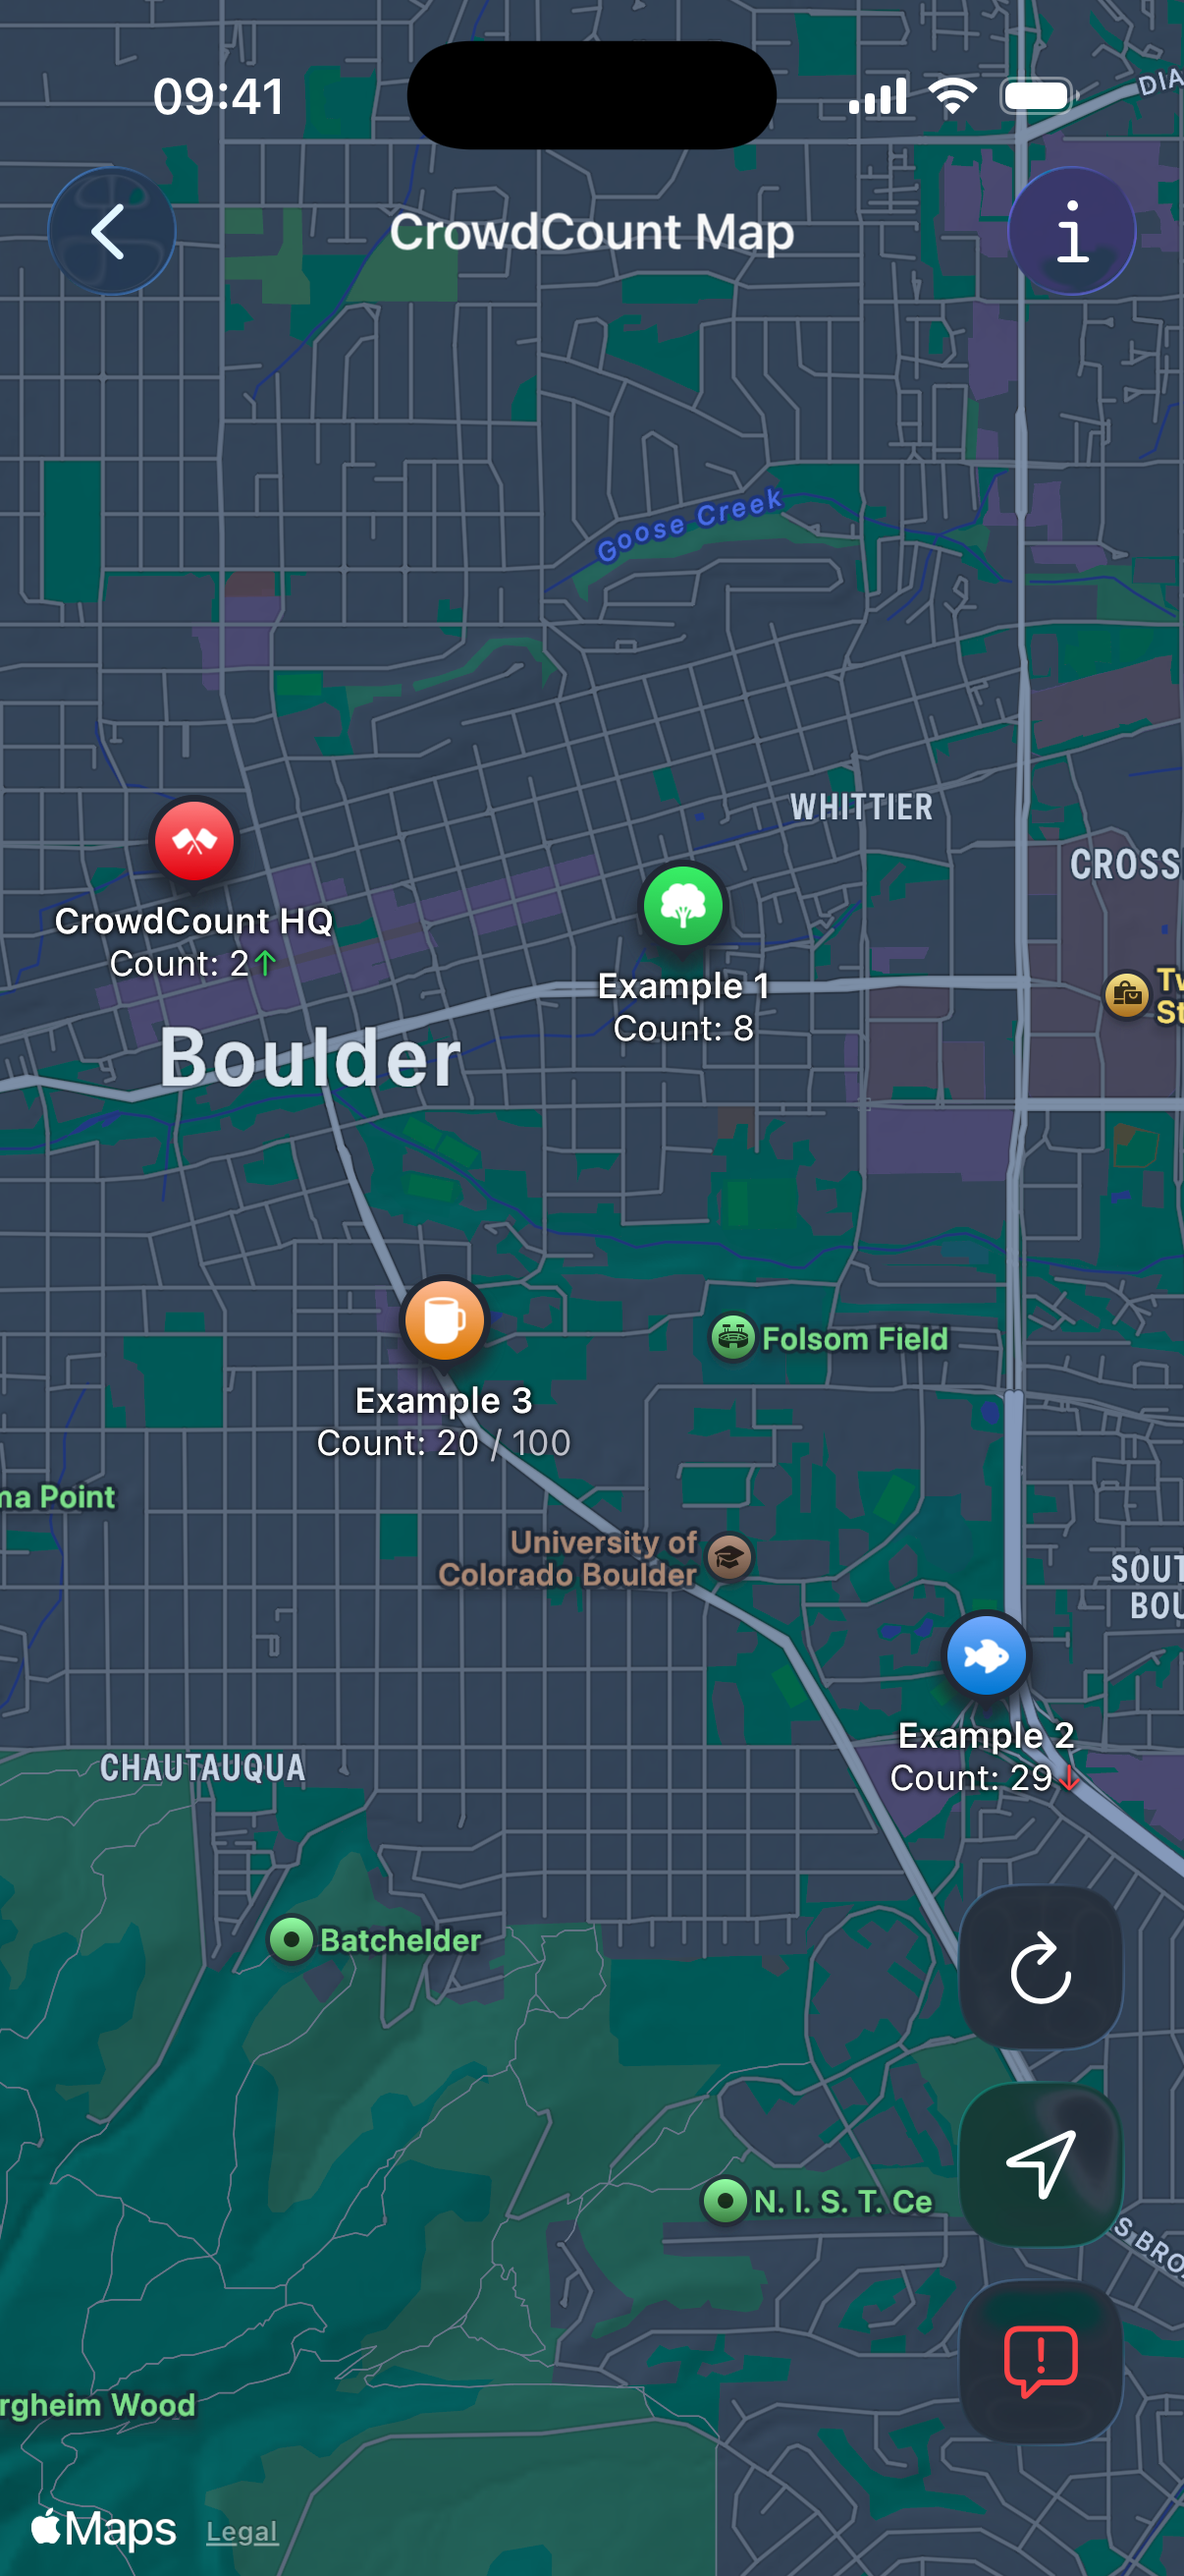
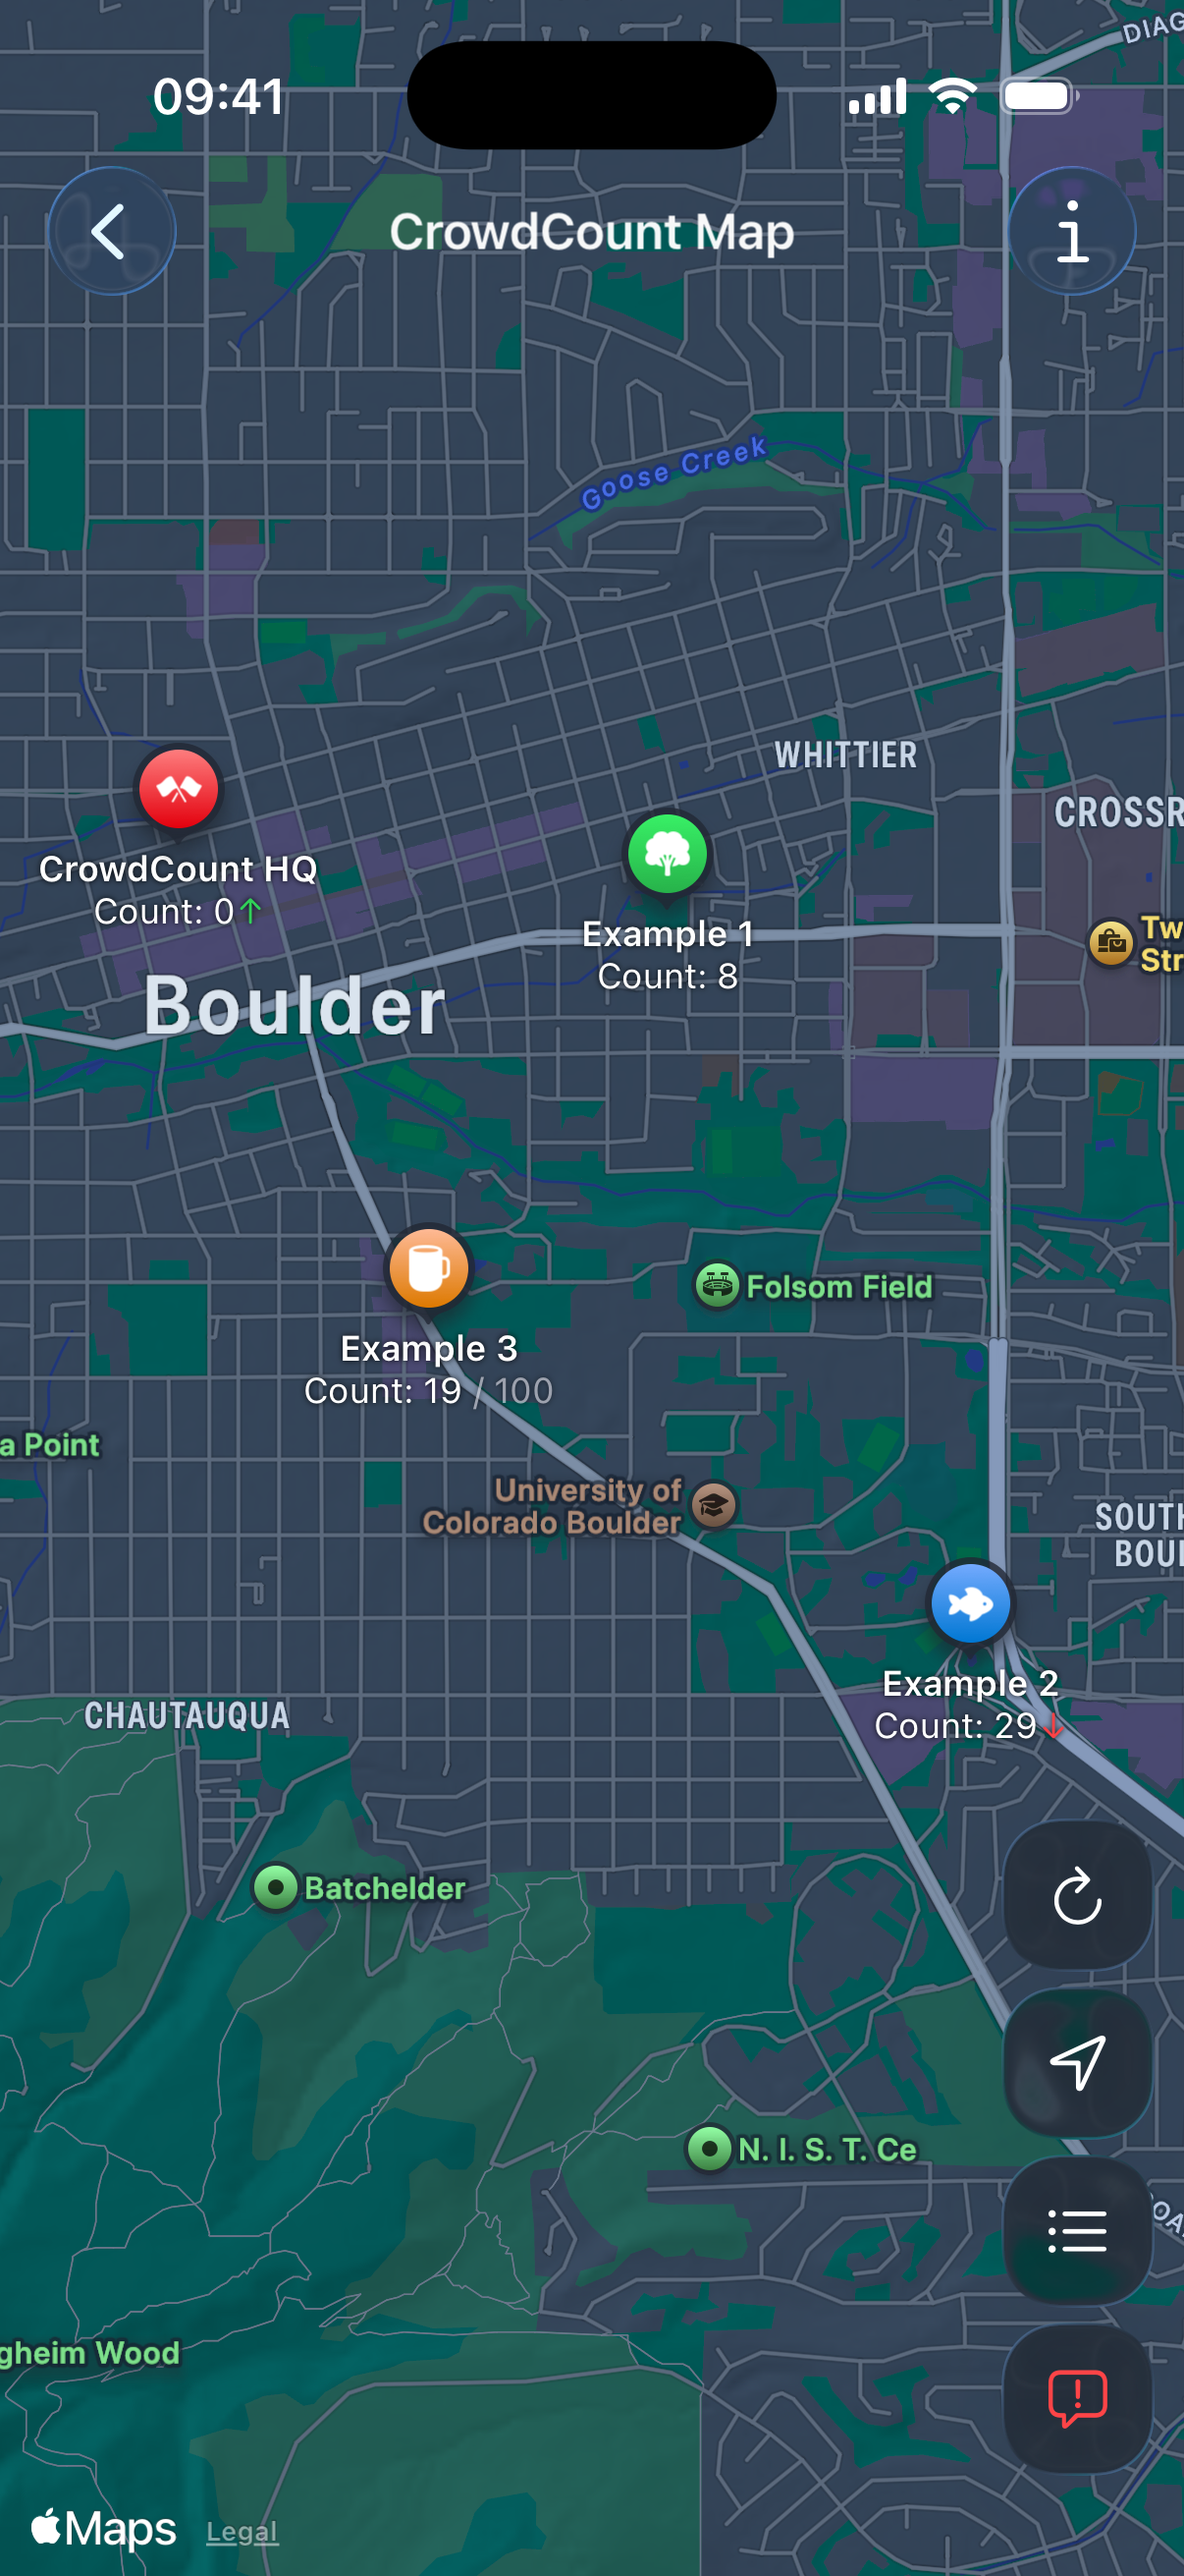
added list view

diff --git a/src/products.html b/src/products.html
@@ -84,6 +84,7 @@
                         <div id="photo-gallery">
                             <img src="./assets/AppPhotos/WelcomePage.png" alt="Welcome Page">
                             <img src="./assets/AppPhotos/MapView.png" alt="Map View">
+                            <img src="./assets/AppPhotos/MapListView.png" alt="Map List View">
                             <img src="./assets/AppPhotos/DeviceViewOvercrowding.png" alt="Device View">
                             <img src="./assets/AppPhotos/LiveHistoricView.png" alt="Live Count History View">
                             <img src="./assets/AppPhotos/AverageInfo.png" alt="Info for Historic View Average">
@@ -98,6 +99,7 @@
                         </div>
 
                         <div id="dots-container">
+                            <span class="dot"></span>
                             <span class="dot"></span>
                             <span class="dot"></span>
                             <span class="dot"></span>
